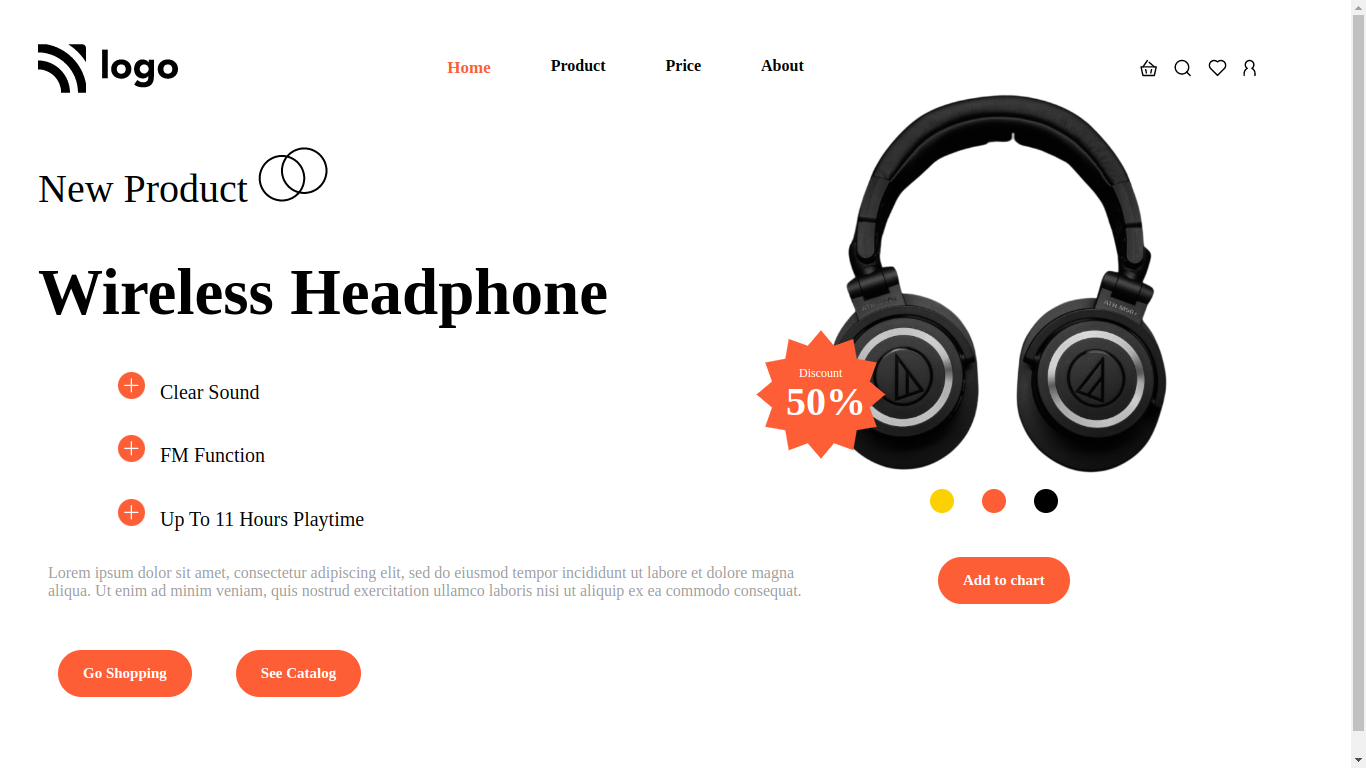
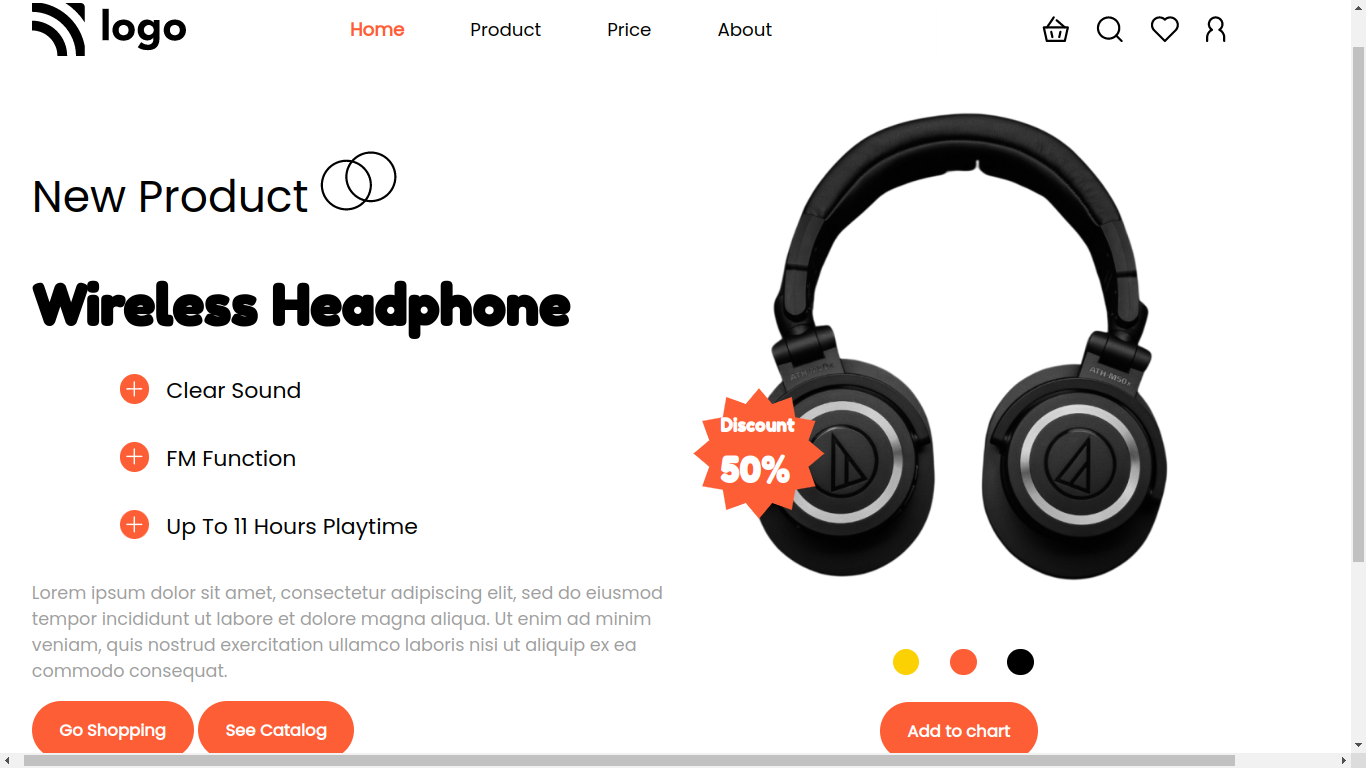
made responsive

diff --git a/css/style.css b/css/style.css
@@ -1,0 +1,158 @@
+nav{
+    display: flex;
+    justify-content: space-between;
+    margin: 30px 0 30px 30px;
+    align-items: center;
+}
+.nav-items{
+    display: flex;
+    font-size: 20px;
+    font-family: Poppins, "Fredoka One";
+}
+.nav-item{
+    padding: 0 30px;
+    cursor: pointer;
+    font-weight: normal;
+}
+.nav-item:hover{
+    color: #FE5E35;
+    font-weight: bold;
+}
+.navM{
+    display: none;
+}
+.signbtn{
+    display: none;
+}
+.intro-section{
+    display: flex;
+    margin: 0 30px;
+    justify-content: space-between;
+}
+button{
+    color: #ffffff;
+    background-color: #FE5E35;
+    border: 0;
+    border-radius: 30px;
+    padding: 15px 25px;
+    font-family: Poppins;
+    font-size: 15px;
+    font-weight: 600;
+}
+h3{
+    font-family: Poppins;
+    font-size: 40px;
+    font-weight: 200;
+}
+.left-section > h1{
+    font-family: "Fredoka One";
+    font-size: 50px;
+}
+.sub-headline > img{
+    background-color: #FE5E35;
+    border-radius: 50%;
+    width: 15px;
+    padding: 6px;
+    margin-right: 10px;
+    margin-left: 80px;
+    margin-bottom: -5px;
+}
+.sub-headline{
+    font-size: 20px;
+    font-family: Poppins;
+    font-weight: lighter;
+    margin-top: -2px;
+}
+.text{
+    color: #9F9F9F;
+    font-size: 16px;
+    font-family: Poppins;
+    font-weight: lighter;
+    width: 50vw;
+}
+.headphone{
+    width: 450px;
+}
+.discount{
+    position: relative;
+    bottom: 200px;
+    right: 20px;
+    width: 120px;
+}
+.discount-content{
+    color: #FFFFFF;
+    position: relative;
+    bottom: 320px;
+    left: 5px;
+    font-family: "Fredoka One";
+}
+.discount-content > h1{
+    position: relative;
+    bottom: 10px;
+}
+.dot{
+    padding: 12px;
+    display: inline-block;
+    border-radius: 50%;
+    margin: 12px 12px 0 12px;
+}
+.dots{
+    margin: 20px 0;
+}
+.yellow-dot{
+    background-color: #FBD104;
+}
+.tomato-dot{
+    background-color: #FE5E35;
+}
+.black-dot{
+    background-color: #000000;
+}
+.cart{
+    position: relative;
+    bottom: 220px;
+    left: 150px;
+}
+
+
+@media screen and (max-width: 800px){
+    .nav-items{
+        display: none;
+    }
+    .navM{
+        display: inline;
+    }
+    .navM{
+        margin: 5px;
+        width: 35px;
+        height: 30px;
+    }
+    .logo{
+        width: 80px;
+    }
+    .signimg{
+        display: none;
+    }
+    .signbtn{
+        display: inline;
+        padding: 10px 20px;
+    }
+    .intro-section{
+        display: flex;
+        flex-direction: column-reverse;
+        justify-content: space-around;
+        align-items: center;
+        margin: 0 10px;
+    }
+    h3{
+        font-size: 30px;
+        font-weight: 200;
+    }
+    .left-section > h1{
+        font-family: "Fredoka One";
+        font-size: 45px;
+    }
+    .text{
+        width: 80vw;
+    }
+}

diff --git a/index.html b/index.html
@@ -4,7 +4,7 @@
     <meta charset="UTF-8" />
     <meta http-equiv="X-UA-Compatible" content="IE=edge" />
     <meta name="viewport" content="width=device-width, initial-scale=1.0" />
-    <link rel="stylesheet" href="css/index.css" />
+    <link rel="stylesheet" href="css/style.css" />
     <link rel="preconnect" href="https://fonts.googleapis.com" />
     <link rel="preconnect" href="https://fonts.gstatic.com" crossorigin />
     <link
@@ -15,14 +15,16 @@
   </head>
   <body>
     <nav>
-      <img src="./images/logo.svg" alt="logo" />
+      <img src="./images/icons8-menu-50.png" alt="" class="navM">
+      <img src="./images/logo.svg" alt="logo" class="logo" />
       <div class="nav-items">
         <h5 class="nav-item active-item">Home</h5>
         <h5 class="nav-item">Product</h5>
         <h5 class="nav-item">Price</h5>
         <h5 class="nav-item">About</h5>
       </div>
-      <img src="./images/actions.svg" alt="actions" />
+      <img src="./images/actions.svg" alt="actions" class="signimg"/>
+      <button class="signbtn">Sign In</button>
     </nav>
     <div class="intro-section">
       <div class="left-section">
@@ -55,19 +57,21 @@
       </div>
       <div class="right-section">
         <div class="headphone-div">
+          <img src="./images/headphones.jpg" alt="headphone" class="headphone"/>
           <img src="./images/discount.svg" alt="discount" class="discount" />
           <div class="discount-content">
             <h4>Discount</h4>
             <h1>50%</h1>
           </div>
-          <img src="./images/headphones.jpg" alt="headphone" />
         </div>
-        <div class="dots">
-          <div class="dot yellow-dot"></div>
-          <div class="dot tomato-dot"></div>
-          <div class="dot black-dot"></div>
+        <div class="cart">
+          <div class="dots">
+            <div class="dot yellow-dot"></div>
+            <div class="dot tomato-dot"></div>
+            <div class="dot black-dot"></div>
+          </div>
+          <button class="action-btn">Add to chart</button>
         </div>
-        <button class="action-btn">Add to chart</button>
       </div>
     </div>
   </body>

diff --git a/Readme.md b/Readme.md
@@ -1,14 +1,17 @@
 # Assignment 7
 ## Full Stack Javascript Web Development Course by [iNeuron](https://ineuron.ai/)
 
-This website is created with HTML and CSS only. As of now, this website is not mobile responsive, but I will update this project very soon to make it mobile responsive. It took me almost 3 hours to complete this project. All the images and logos are provided by iNeuron team.
+This webpage is created with core HTML & CSS. This is a responsive webpage and I have used Media query to give responsiveness. It took me almost 4 to 5 hours to complete the webpage. I'm giving 2 screenshots of the webpage below.
 
 [Click Here](https://fsjs-assignment7.netlify.app/) to view the website.
 
-### Screenshots of the web-page:
+## **Screenshots of the web-page in large screen:**
 
 ![Full website](./images/Screenshot_20220805_082235.png)
 
+## **Screenshots of the web-page in smaller screen:**
+
+![small screen](./images/Mobile-ss.png)
 
 ## Contact me: [Linkedin](https://www.linkedin.com/in/subham-dutta-8670b8178/) | [Github](https://github.com/Sduttt) | [Twitter](https://twitter.com/Subhamd88404337) | [Facebook](https://www.facebook.com/profile.php?id=100073951804006) | [Instagram](https://www.instagram.com/its_subham_dutta/)
 
